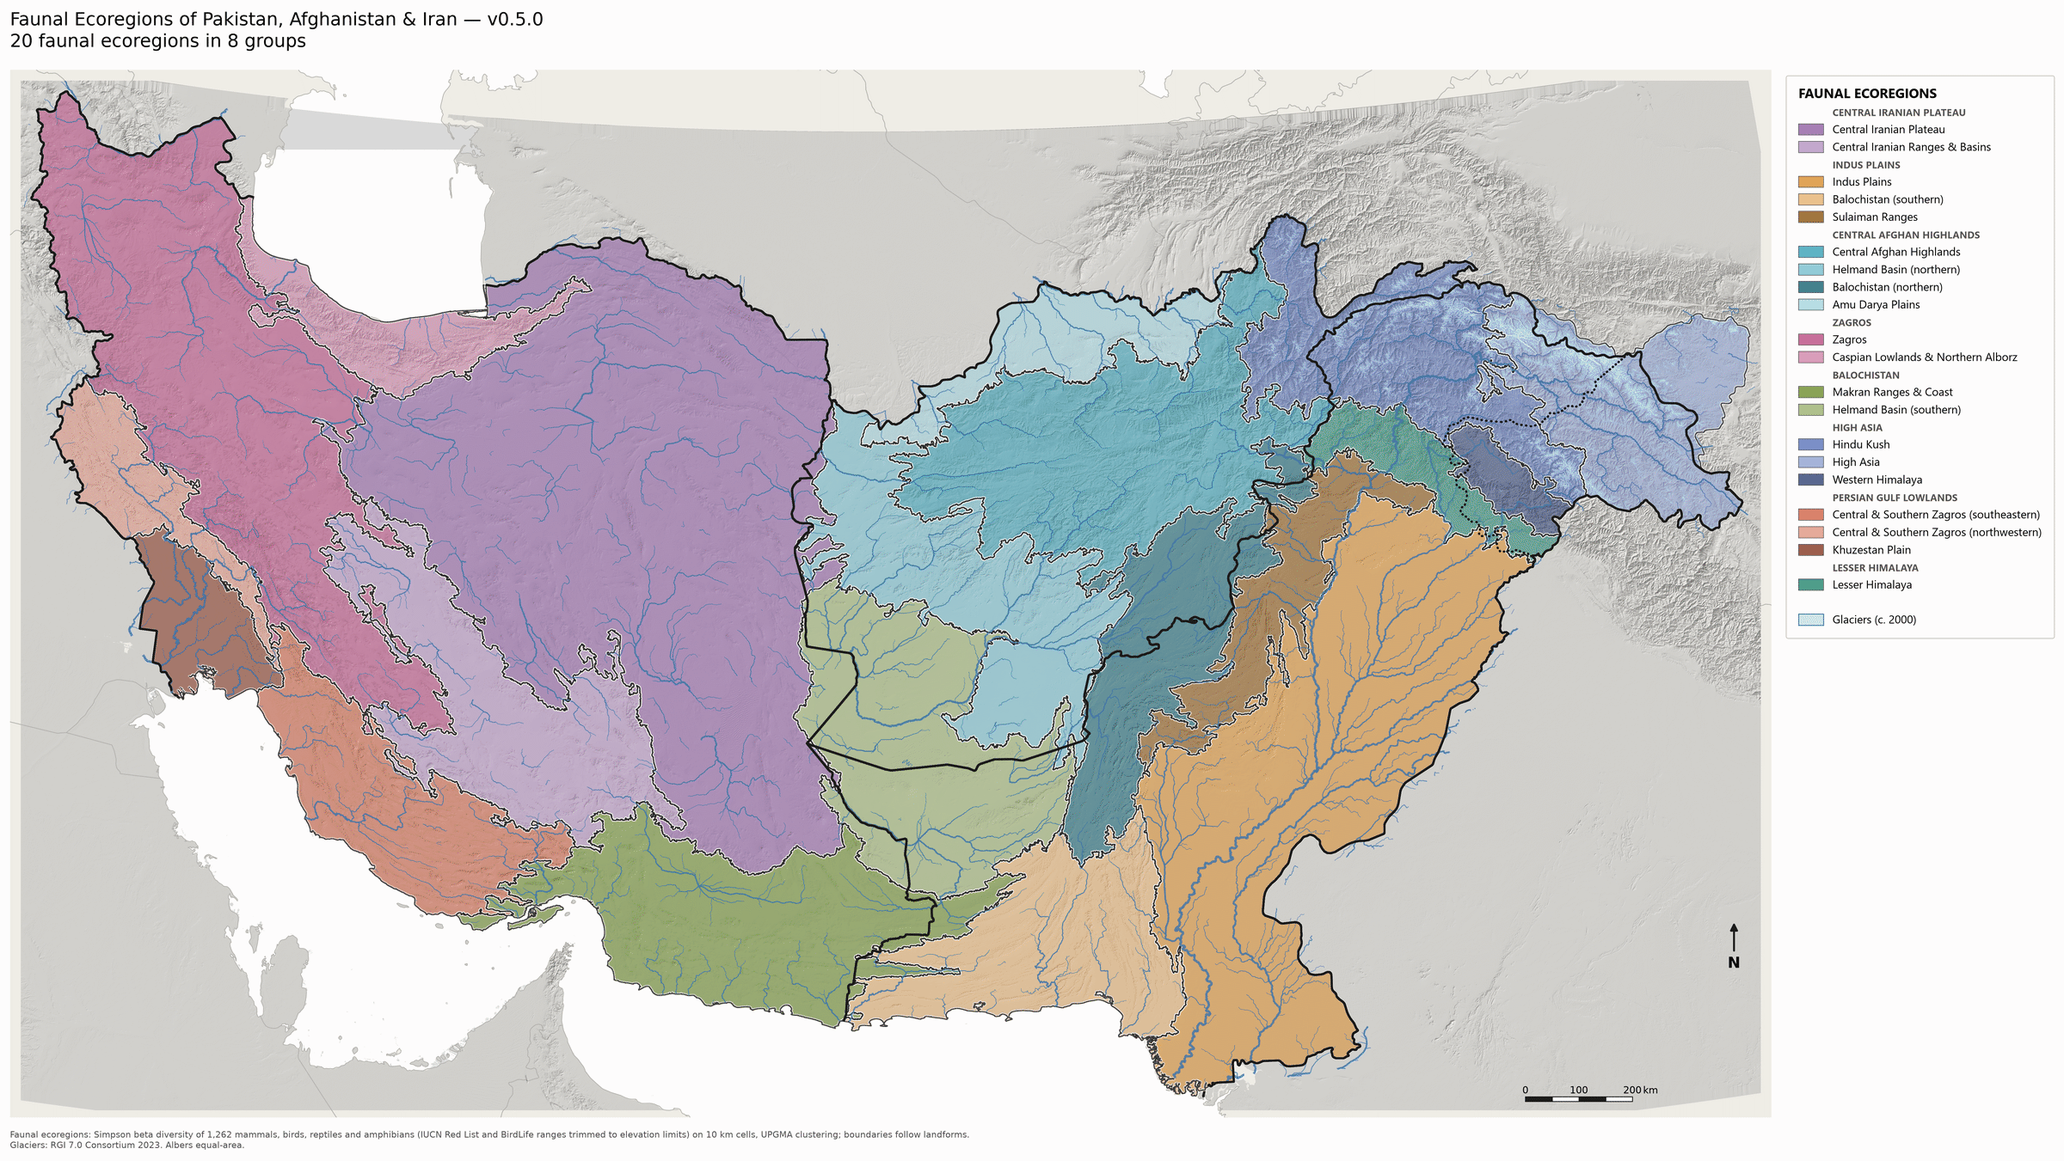
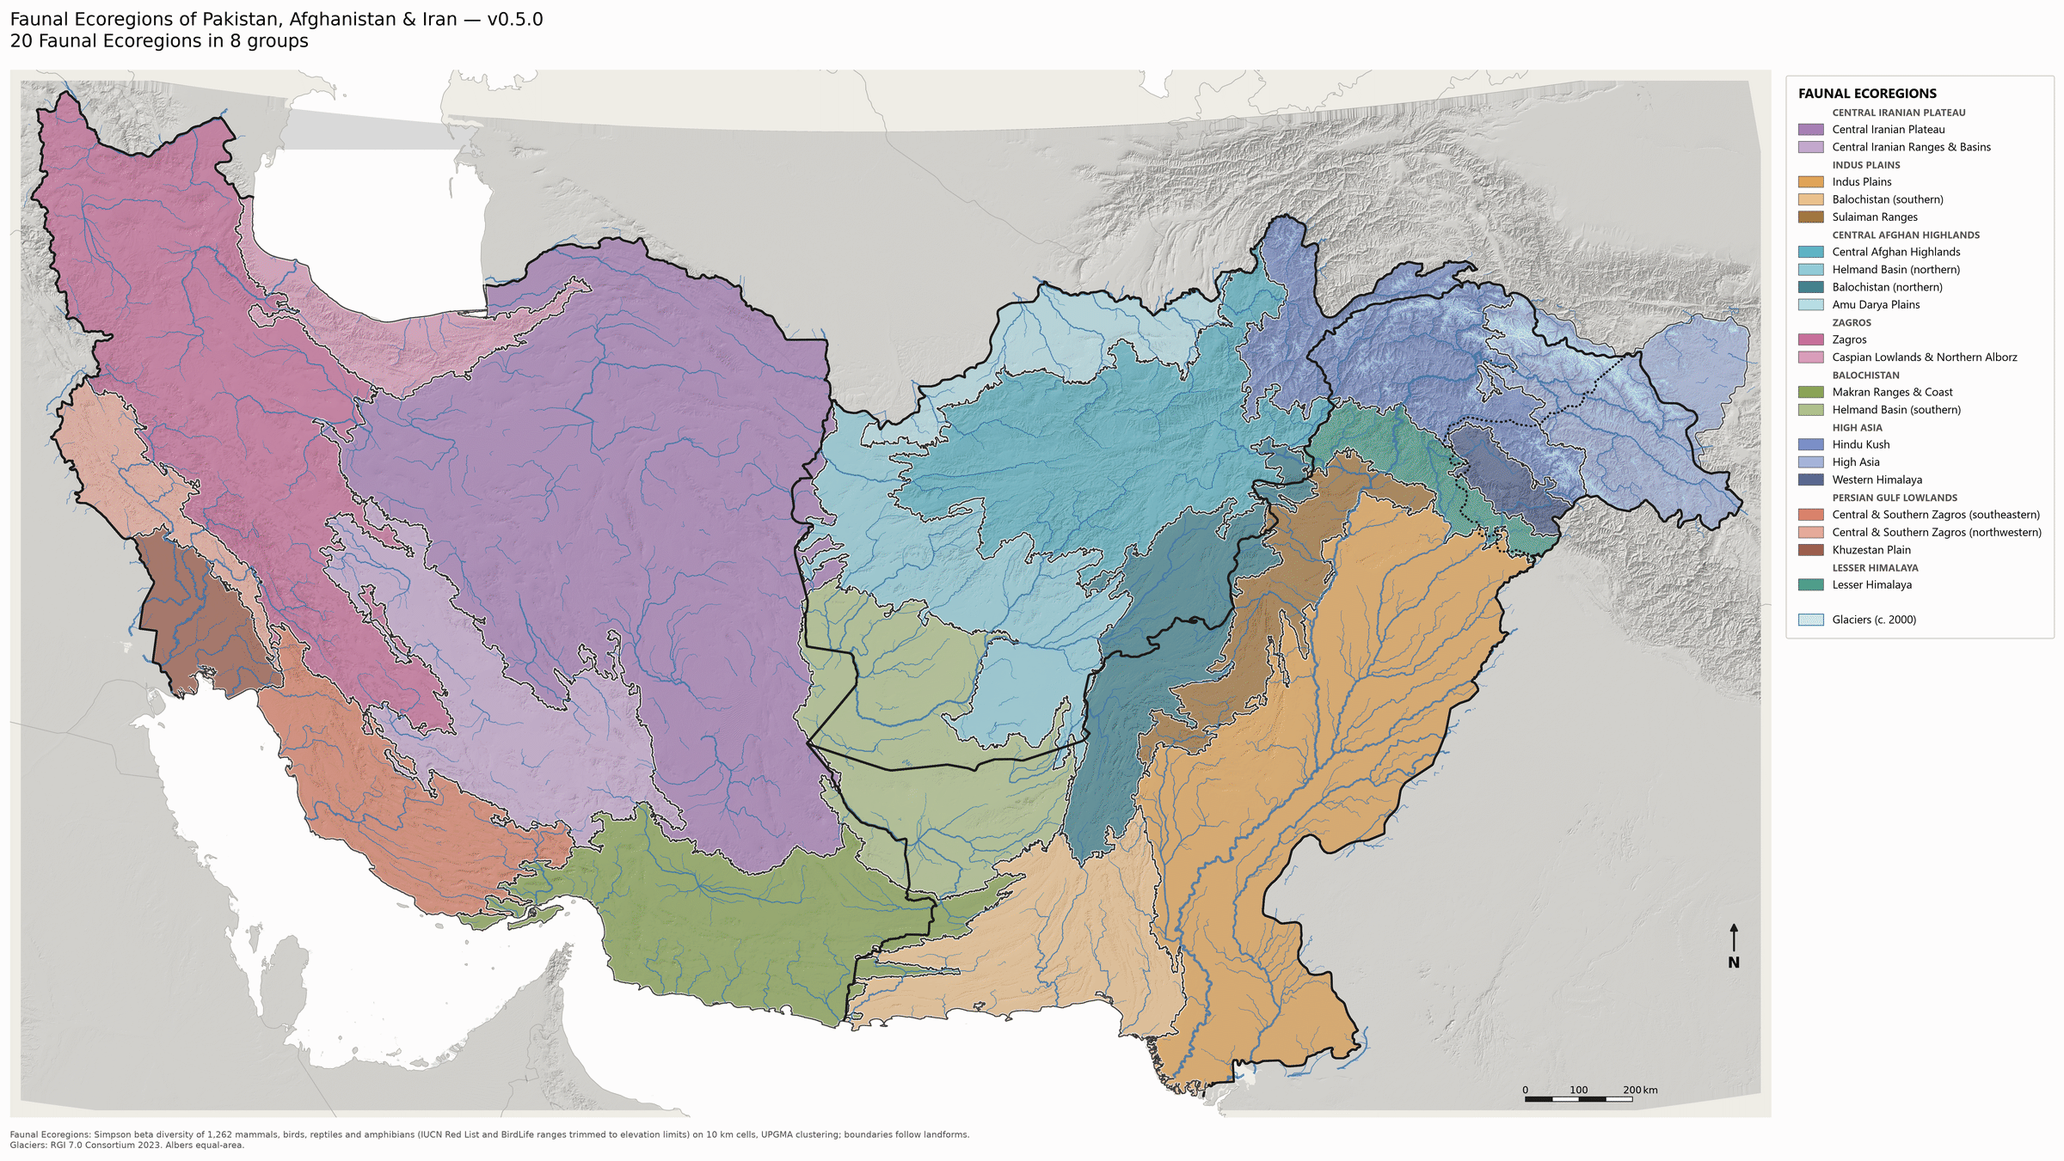
README rewritten for readers; Floral and Faunal Ecoregions named throughout (README, map titles and keys); QA close-ups outside a grid skipped

Changed region(s): [[0.625, 0.342, 0.75, 0.4974], [0.0312, 0.0311, 0.1562, 0.0622]]

diff --git a/src/ecoregions/cartography.py b/src/ecoregions/cartography.py
@@ -59,11 +59,11 @@ def region_map(cfg, paths, out, mode: str = "floral") -> list[str]:
         groups = pd_groupby_keep_order([(types[t]["biome"], (types[t]["name"] + (" *" if t in flagged else ""),
                                                              types[t]["color"])) for t in order])
         if flagged:
-            notes.append("* includes ecoregions flagged for review")
-        key_title = "ECOREGIONS"
-        title = (f"Revised Ecoregions of {cfg['project']['area']} — v{v}\n"
-                 f"{len(g)} ecoregions of {g['type'].nunique()} types in {g.biome.nunique()} biomes")
-        credit = ("Ecoregions: potential natural vegetation communities (rules on Copernicus GLO-90, CHELSA v2.1, "
+            notes.append("* includes Floral Ecoregions flagged for review")
+        key_title = "FLORAL ECOREGIONS"
+        title = (f"Floral Ecoregions of {cfg['project']['area']} — v{v}\n"
+                 f"{len(g)} Floral Ecoregions of {g['type'].nunique()} types in {g.biome.nunique()} biomes")
+        credit = ("Floral Ecoregions: potential natural vegetation communities (rules on Copernicus GLO-90, CHELSA v2.1, "
                   f"SoilGrids, {cfg['sources']['geology']['label']}, HydroSHEDS), boundaries snapped to landforms at 90 m.\n"
                   "Checked against Global Mangrove Watch v3, Jung et al. 2020, Hengl et al. 2018, GBIF, RESOLVE 2017. ")
     else:
@@ -74,9 +74,9 @@ def region_map(cfg, paths, out, mode: str = "floral") -> list[str]:
         groups = pd_groupby_keep_order([(r.group_name, (r.faunal_name, r.color)) for r in g.itertuples()])
         key_title = "FAUNAL ECOREGIONS"
         title = (f"Faunal Ecoregions of {cfg['project']['area']} — v{v}\n"
-                 f"{len(g)} faunal ecoregions in {g.group.nunique()} groups")
+                 f"{len(g)} Faunal Ecoregions in {g.group.nunique()} groups")
         nsp = int((paths.interim / "faunal" / "n_species.txt").read_text())
-        credit = (f"Faunal ecoregions: Simpson beta diversity of {nsp:,} mammals, birds, reptiles and amphibians (IUCN Red List "
+        credit = (f"Faunal Ecoregions: Simpson beta diversity of {nsp:,} mammals, birds, reptiles and amphibians (IUCN Red List "
                   "and BirdLife ranges trimmed to elevation limits) on 10 km cells, UPGMA clustering; boundaries follow "
                   "landforms.\n")
     credit += "Albers equal-area."

diff --git a/src/ecoregions/staticmap.py b/src/ecoregions/staticmap.py
@@ -98,7 +98,7 @@ def run(cfg) -> None:
     ax.annotate("N", xy=(x0 - 60000, y0 + 90000), xytext=(x0 - 60000, y0), ha="center", fontsize=11,  # left of the scale bar, clear of the key
                 weight="bold", arrowprops=dict(arrowstyle="-|>", color="#1b1b1a", lw=1.4))
 
-    ax.set_title(f"Revised Ecoregions of {cfg['project']['area']} — v{cfg['project']['version']}\n"
+    ax.set_title(f"Physiographic Units of {cfg['project']['area']} — v{cfg['project']['version']}\n"
                  f"{len(l3)} Level III units within {len(l2)} Level II physiographic provinces (Omernik-style weight-of-evidence delineation)",
                  fontsize=13, loc="left")
     credit = ("Data: Copernicus GLO-90 DEM (ESA/Airbus); HydroSHEDS/HydroRIVERS (WWF, Lehner & Grill 2013); " + cfg["sources"]["geology"]["credit"] + "; "

diff --git a/src/ecoregions/qa.py b/src/ecoregions/qa.py
@@ -51,6 +51,9 @@ def zoom(arr: np.ndarray, grid, lonlat_bbox, path: Path, title="", cmap="viridis
     r0, r1 = int(max(0, min(rows))), int(min(arr.shape[0], max(rows)))
     c0, c1 = int(max(0, min(cols))), int(min(arr.shape[1], max(cols)))
     sub = arr[r0:r1, c0:c1]
+    if sub.size == 0 or (sub.dtype.kind == "f" and np.isnan(sub).all()):  # box outside this grid (e.g. a parcel)
+        log.info("QA zoom %s: box outside the grid, skipped", path.name)
+        return None
     o = overlay[r0:r1, c0:c1] if overlay is not None else None
     return quicklook(sub, path, title, cmap, vmin, vmax, max_px=2400, categorical=categorical, outline=o)
 

diff --git a/README.md b/README.md
@@ -1,123 +1,103 @@
 # Revised Ecoregions of the World
 
-A new ecoregion map of the whole planet, to replace the coarse WWF/RESOLVE *Ecoregions 2017*.
-The world is mapped one area at a time with one method, and each area is published when it is
-done.
+A new ecoregion map of the world, built to improve on the WWF/RESOLVE *Ecoregions 2017* map. Each area is mapped
+with the same method and published when it is finished. Every area has two maps:
+
+- **Floral Ecoregions**: regions of distinct natural vegetation.
+- **Faunal Ecoregions**: regions of distinct mammals, birds, reptiles and amphibians.
 
 ## Progress
 
-| Area | Version | Land area | Ecoregions | Types | Faunal ecoregions | Maps |
+| Area | Version | Land area | Floral Ecoregions | Types | Faunal Ecoregions | Maps |
 |---|---|---|---|---|---|---|
-| Pakistan, Afghanistan & Iran (with Kashmir, Aksai Chin and the Shaksgam Valley) | 0.5.0 | 3,281,449 km² | 165 | 44 | 20 | [ecoregions](outputs/pak-afg-irn/ecoregions_map_v0.5.0.png) · [faunal](outputs/pak-afg-irn/faunal_map_v0.5.0.png) |
-| Texas | 0.2.0 | 685,641 km² | 31 | 19 | 12 | [ecoregions](outputs/texas/ecoregions_map_v0.2.0.png) · [faunal](outputs/texas/faunal_map_v0.2.0.png) |
-| **Mapped so far** | | **3,967,090 km²** | **196** | | | **2.7 % of the world's land** |
+| Pakistan, Afghanistan & Iran | 0.5.0 | 3,281,449 km² | 165 | 44 | 20 | [floral](outputs/pak-afg-irn/ecoregions_map_v0.5.0.png) · [faunal](outputs/pak-afg-irn/faunal_map_v0.5.0.png) |
+| Texas | 0.2.0 | 685,641 km² | 31 | 19 | 12 | [floral](outputs/texas/ecoregions_map_v0.2.0.png) · [faunal](outputs/texas/faunal_map_v0.2.0.png) |
+| **Total** | | **3,967,090 km²** | **196** | | | **2.7 % of the world's land** |
 
-World land: 146.7 million km² (Natural Earth, equal-area, Antarctica included). Next: Central Asia, built as its
-own area and joined to its neighbours at the border.
+Next: Central Asia.
 
 | Date | Done |
 |---|---|
-| 2026-11-06 | Pakistan, Azad Kashmir and Gilgit-Baltistan (v0.2.0) |
-| 2026-11-08 | Jammu and Kashmir, Ladakh, Demchok, Aksai Chin and the Shaksgam Valley (v0.3.0) |
+| 2026-11-06 | Pakistan (v0.2.0) |
+| 2026-11-08 | Kashmir (v0.3.0) |
 | 2026-11-09 | Afghanistan (v0.4.0) |
 | 2026-11-11 | Pakistan & Afghanistan v0.4.2; Texas v0.1.0 |
-| 2026-11-12 | Texas v0.2.0 (central band regrouped by rainfall); held-out scorecard and pre-registered confirmation tests |
-| 2026-11-13 | Iran: Pakistan, Afghanistan & Iran v0.5.0; first confirmation test on sealed records |
+| 2026-11-12 | Texas v0.2.0 |
+| 2026-11-13 | Pakistan, Afghanistan & Iran v0.5.0, with the first confirmation test |
 
 ## How the maps are made
 
-Each area gets three nested levels and one separate map:
+**Floral Ecoregions.** Natural vegetation communities are mapped at 90 m resolution from explicit rules on terrain,
+climate, soils, geology and water ([`communities.yaml`](communities.yaml)). Communities are grouped into types, and
+each Floral Ecoregion is one continuous area of one type, with boundaries following landforms. Each type is assigned
+a biome.
 
-- **Ecoregions**: the main map. Potential natural vegetation communities are mapped at 90 m by
-  explicit rules on terrain, climate, soils, geology and hydrology (one rule file per area, e.g.
-  [`communities.yaml`](communities.yaml)). Communities are grouped into **ecoregion types**, and
-  each ecoregion is one continuous area of one type, at least 1,000 km², with boundaries snapped
-  to landforms.
-- **Biomes**: the RESOLVE biome of each ecoregion type.
-- **Faunal ecoregions** (separate map): areas with distinct mammals, birds, reptiles and amphibians,
-  clustered from IUCN and BirdLife ranges on 10 km cells. They never cut the ecoregions, and the
-  ecoregions never cut them.
+**Faunal Ecoregions.** Areas with distinct animal communities, grouped from IUCN and BirdLife range maps of mammals,
+birds, reptiles and amphibians on 10 km cells.
 
-Each map is tested on GBIF species records: half the sample cells (a checkerboard) are kept out of rule
-calibration and used only for testing, against RESOLVE, reference maps (comparison only), a climate-only
-clustering and random maps of the same size.
+**Testing.** The maps are compared with RESOLVE on how well they predict the species recorded in GBIF at places not
+used to build them. Half the sample cells are held out for this. Because those held-out results were looked at
+during development, they count as exploratory. A stricter test uses records sealed before work on an area begins and
+opened once, after the map is frozen; its rules are fixed in advance in
+[`docs/preregistration.md`](docs/preregistration.md). Every analysis is listed in [`docs/ledger.md`](docs/ledger.md).
 
-> **The held-out results are exploratory.** The held-out cells were looked at many times while the
-> maps were developed (every such analysis is listed in [`docs/ledger.md`](docs/ledger.md)), so they cannot
-> confirm an improvement independently. Iran's sealed records are the first confirmation test (below). An independent methodological review set out the
-> protocol a confirmation must follow: fresh, spatially separated observations, two pre-declared measures
-> (prediction of held-out species lists, and species turnover across boundaries) and fixed decision rules.
+Results below are the change in prediction error relative to RESOLVE (positive: ours better), with 95 % intervals.
 
 ## Pakistan, Afghanistan & Iran (v0.5.0)
 
-[![Ecoregions of Pakistan, Afghanistan & Iran](outputs/pak-afg-irn/ecoregions_map_v0.5.0_preview.png)](outputs/pak-afg-irn/ecoregions_map_v0.5.0.png)
+[![Floral Ecoregions of Pakistan, Afghanistan & Iran](outputs/pak-afg-irn/ecoregions_map_v0.5.0_preview.png)](outputs/pak-afg-irn/ecoregions_map_v0.5.0.png)
 
-[![Faunal ecoregions of Pakistan, Afghanistan & Iran](outputs/pak-afg-irn/faunal_map_v0.5.0_preview.png)](outputs/pak-afg-irn/faunal_map_v0.5.0.png)
+[![Faunal Ecoregions of Pakistan, Afghanistan & Iran](outputs/pak-afg-irn/faunal_map_v0.5.0_preview.png)](outputs/pak-afg-irn/faunal_map_v0.5.0.png)
 
-> Borders: Afghanistan's and Iran's borders are drawn solid. Pakistan's border is drawn solid around Pakistan, the Siachen Glacier area, Jammu and Kashmir and Demchok; the line where Jammu and Kashmir meets the rest of Pakistan is dotted. Aksai Chin and the Shaksgam Valley are shown as part of China. All of these areas are mapped.
+| Exploratory (held-out cells) | Ours vs RESOLVE |
+|---|---|
+| Plants, Floral Ecoregions (0.25° / 0.125° cells) | +0.2 % (−0.3 to +0.6) / +1.2 % (+0.4 to +1.9) |
+| Birds, Faunal Ecoregions | +1.3 % (+0.4 to +2.3) |
 
-Exploratory, held-out GBIF cells (`scorecard`): how much better each map predicts held-out species lists than
-RESOLVE 2017 (positive: ours better; 95 % interval from resampling 1-degree blocks):
+| Confirmation (sealed Iranian records, opened once) | Result |
+|---|---|
+| Birds | Not demonstrated: Floral Ecoregions −2.9 % (−4.6 to −1.6), Faunal Ecoregions −0.9 % (−3.4 to +1.0) |
+| Plants | Not testable: too few sealed records |
+| Vegetation plots (sPlotOpen) | Too few for a verdict; biome agreement 94 % vs RESOLVE's 54 % |
 
-| | Ours vs RESOLVE | Land tested |
-|---|---|---|
-| Plants, floral ecoregions, 0.25 / 0.125 degrees | +0.2 % (-0.3 to +0.6) / +1.2 % (+0.4 to +1.9) | 3.8 % / 1.1 % |
-| Birds, faunal ecoregions, 0.25 degrees | +1.3 % (+0.4 to +2.3) | 5 % |
-
-**Confirmation (pre-registered, run once on the frozen map).** Iranian records in 14 sealed two-degree squares, and
-all sPlotOpen vegetation plots in Iran, were opened only after the map's hash was committed:
-
-| Test | Result | Verdict by the registered rules |
-|---|---|---|
-| Birds, sealed GBIF cells (26 blocks) | ours -2.9 % (-4.6 to -1.6); faunal map -0.9 % (-3.4 to +1.0) | **Not demonstrated**: RESOLVE predicts the sealed bird lists better |
-| Plants, sealed GBIF cells | 29 cells, below the minimum of 30 | Not testable |
-| Vegetation plots (12 blocks; 20 required) | species lists -1.0 % (-2.5 to +0.9); biome agreement 94 % vs 54 % | Descriptive only |
-
-So the improvement seen on the held-out cells did not hold up for birds on fresh, spatially separate records, and
-plants could not be tested. Details in [`docs/ledger.md`](docs/ledger.md).
+The gain seen on held-out cells did not hold up for birds on the sealed records. A follow-up analysis found that the
+Floral Ecoregions are finer than the bird data can support (they reach parity with RESOLVE at RESOLVE's level of
+detail), and that the Faunal Ecoregions are level with RESOLVE.
 
 ## Texas (v0.2.0)
 
-v0.2.0 regroups the central band (Blackland, Post Oak, Cross Timbers, Grand Prairie) by rainfall rather than soil:
-plants there turn over east to west with rain, across the old north-south soil bands.
+[![Floral Ecoregions of Texas](outputs/texas/ecoregions_map_v0.2.0_preview.png)](outputs/texas/ecoregions_map_v0.2.0.png)
 
-[![Ecoregions of Texas](outputs/texas/ecoregions_map_v0.2.0_preview.png)](outputs/texas/ecoregions_map_v0.2.0.png)
+[![Faunal Ecoregions of Texas](outputs/texas/faunal_map_v0.2.0_preview.png)](outputs/texas/faunal_map_v0.2.0.png)
 
-[![Faunal ecoregions of Texas](outputs/texas/faunal_map_v0.2.0_preview.png)](outputs/texas/faunal_map_v0.2.0.png)
+| Exploratory (held-out cells) | Ours vs RESOLVE |
+|---|---|
+| Plants, Floral Ecoregions (0.25° / 0.125° cells) | −0.4 % (−0.8 to 0.0) / 0.0 % (−0.5 to +0.5) |
+| Birds, Faunal Ecoregions | 0.0 % (−1.0 to +0.9) |
 
-Exploratory, as above:
-
-| | Ours vs RESOLVE | Land tested |
-|---|---|---|
-| Plants, floral ecoregions, 0.25 / 0.125 degrees | -0.4 % (-0.8 to 0.0) / 0.0 % (-0.5 to +0.5) | 44 % / 26 % |
-| Birds, faunal ecoregions, 0.25 degrees | 0.0 % (-1.0 to +0.9) | 48 % |
-
-At two to three times RESOLVE's detail, the plant map predicts plant assemblages as well as RESOLVE (the protocol's
-non-inferiority margin is -1 %). Agreement with the EPA ecoregions: V-measure 0.66 (Level III), 0.64 (Level IV).
-A confirmatory test on independent vegetation plots (sPlotOpen), pre-registered in [`docs/preregistration.md`](docs/preregistration.md)
-and run once, was inconclusive: the eligible plots fall in only 5 one-degree blocks (20 required), so it is reported as
-descriptive in [`docs/ledger.md`](docs/ledger.md).
+At two to three times RESOLVE's detail, the Floral Ecoregions predict plant records as well as RESOLVE. They agree
+with the EPA ecoregions with a V-measure of 0.66 (Level III) and 0.64 (Level IV). A test on vegetation plots had too
+few plots for a verdict.
 
 ## Outputs
 
-Pakistan & Afghanistan v0.4.2 in `outputs/`, every other area in `outputs/<area>/` (Pakistan, Afghanistan & Iran in
-`outputs/pak-afg-irn/`, its GeoPackages zipped to stay under GitHub's file limit):
+Each area's files are in `outputs/<area>/` (larger GeoPackages are zipped). The older Pakistan & Afghanistan v0.4.2
+files are in `outputs/`.
 
 | File | Contents |
 |---|---|
-| `ecoregions.gpkg` | ecoregions, ecoregion types, faunal ecoregions, biomes, study area, borders, rivers (Albers equal-area) |
-| `ecoregions.csv` | ecoregion attributes: type, biome, faunal ecoregion, area, elevation, climate, population, land converted, countries |
-| `ecoregions_map_v*.png`, `faunal_map_v*.png` | static maps |
-| `physiographic.gpkg`, `physiographic_map_v*.png` | the physiographic layer the ecoregions are snapped to |
-| `validation_*.csv`, `ecoregion_audit.csv` | validation tests and the per-ecoregion audit |
+| `ecoregions.gpkg` | Floral Ecoregions, their types, Faunal Ecoregions, biomes, borders, rivers (Albers equal-area) |
+| `ecoregions.csv` | attributes of each Floral Ecoregion: type, biome, Faunal Ecoregion, area, elevation, climate, population, land converted, countries |
+| `ecoregions_map_v*.png`, `faunal_map_v*.png` | maps of the Floral and Faunal Ecoregions |
+| `physiographic.gpkg`, `physiographic_map_v*.png` | the landform units the Floral Ecoregion boundaries follow |
+| `scorecard*.csv`, `confirmation*.csv`, `validation_*.csv`, `ecoregion_audit.csv` | test results and the per-ecoregion audit |
 
 ## How to run
 
 ```bash
 pip install -r requirements.txt && pip install -e .
-make all                     # Pakistan & Afghanistan end to end
-make all REGION=texas        # another area (settings in regions/<area>.yaml)
-python -m ecoregions --region texas <stage>   # one stage
+make all REGION=pak-afg-irn  # one area end to end
+python -m ecoregions --region texas <stage>   # one stage (settings in regions/<area>.yaml)
 make test
 ```
 
@@ -132,18 +112,17 @@ On Windows without `make`: `bash scripts/build_all.sh` from Git Bash. Raw downlo
 | HydroRIVERS v1.0, HydroBASINS v1c | rivers, basins | Lehner & Grill 2013, *Hydrol. Process.* 27: 2171–2186 | CC BY 4.0 |
 | CHELSA v2.1 (1981–2010) | climate | Karger et al. 2017, *Sci. Data* 4: 170122 | EnviDat open terms |
 | SoilGrids 2.0 | soils | Poggio et al. 2021, *SOIL* 7: 217–240 | CC BY 4.0 |
-| Geologic map of South Asia (geo8ag) | geology (Pakistan & Afghanistan) | Wandrey & Law 1998, USGS OFR 97-470-C | public domain |
+| Geologic maps of South Asia (geo8ag) and Iran (geo2cg) | geology | Wandrey & Law 1998, USGS OFR 97-470-C; USGS OFR 97-470-G | public domain |
 | USGS State Geologic Map Compilation | geology (Texas) | Horton 2017, doi:10.5066/F7WH2N65 | public domain |
 | ESA WorldCover 2021 | land converted | Zanaga et al. 2022, doi:10.5281/zenodo.7254221 | CC BY 4.0 |
 | GHS-POP R2023A (2020) | population | Schiavina et al. 2023, JRC | CC BY 4.0 |
-| IUCN Red List range maps and assessments | faunal ecoregions, Red List status | IUCN 2026, *The IUCN Red List of Threatened Species* | IUCN terms (non-commercial) |
-| BirdLife bird distribution maps 2025 | faunal ecoregions | BirdLife International and Handbook of the Birds of the World 2025 | BirdLife terms (non-commercial) |
-| GBIF occurrence downloads | validation, audit | GBIF.org 2026, doi:10.15468/dl.22b9a4, doi:10.15468/dl.6t43nn, doi:10.15468/dl.gv4z7m | per record; only aggregates stored |
+| IUCN Red List range maps and assessments | Faunal Ecoregions | IUCN 2026, *The IUCN Red List of Threatened Species* | IUCN terms (non-commercial) |
+| BirdLife bird distribution maps 2025 | Faunal Ecoregions | BirdLife International and Handbook of the Birds of the World 2025 | BirdLife terms (non-commercial) |
+| GBIF occurrence downloads | testing, audit | GBIF.org 2026, doi:10.15468/dl.22b9a4, doi:10.15468/dl.6t43nn, doi:10.15468/dl.gv4z7m | per record; only aggregates stored |
 | RESOLVE Ecoregions 2017 | biomes, comparison | Dinerstein et al. 2017, *BioScience* 67: 534–545 | CC BY 4.0 |
 | EPA Level III and IV ecoregions | comparison only (Texas) | Griffith et al. 2007, *Ecoregions of Texas*, U.S. EPA | public domain |
-| Jung et al. 2020 habitat map; Hengl et al. 2018 potential natural vegetation | checks of the community rules | Jung et al. 2020, *Sci. Data* 7: 220; Hengl et al. 2018, *PeerJ* 6: e5457 | CC BY 4.0 |
+| Jung et al. 2020 habitat map; Hengl et al. 2018 potential natural vegetation | checks of the vegetation rules | Jung et al. 2020, *Sci. Data* 7: 220; Hengl et al. 2018, *PeerJ* 6: e5457 | CC BY 4.0 |
 | WhiteboxTools | geomorphons | Lindsay 2016, *Comput. Geosci.* 95: 75–84 | MIT |
-| Mapzen Terrain Tiles | site relief and 3D terrain | AWS Open Data, Terrain Tiles | per source (attribution) |
 | Global Mangrove Watch v3 | check of the mangrove rules | Bunting et al. 2022, *Remote Sens.* 14: 3657 | CC BY 4.0 |
 | RGI 7.0 | glaciers | RGI 7.0 Consortium 2023, doi:10.5067/f6jmovy5navz | public |
 | Natural Earth 10 m | boundaries | naturalearthdata.com | public domain |
